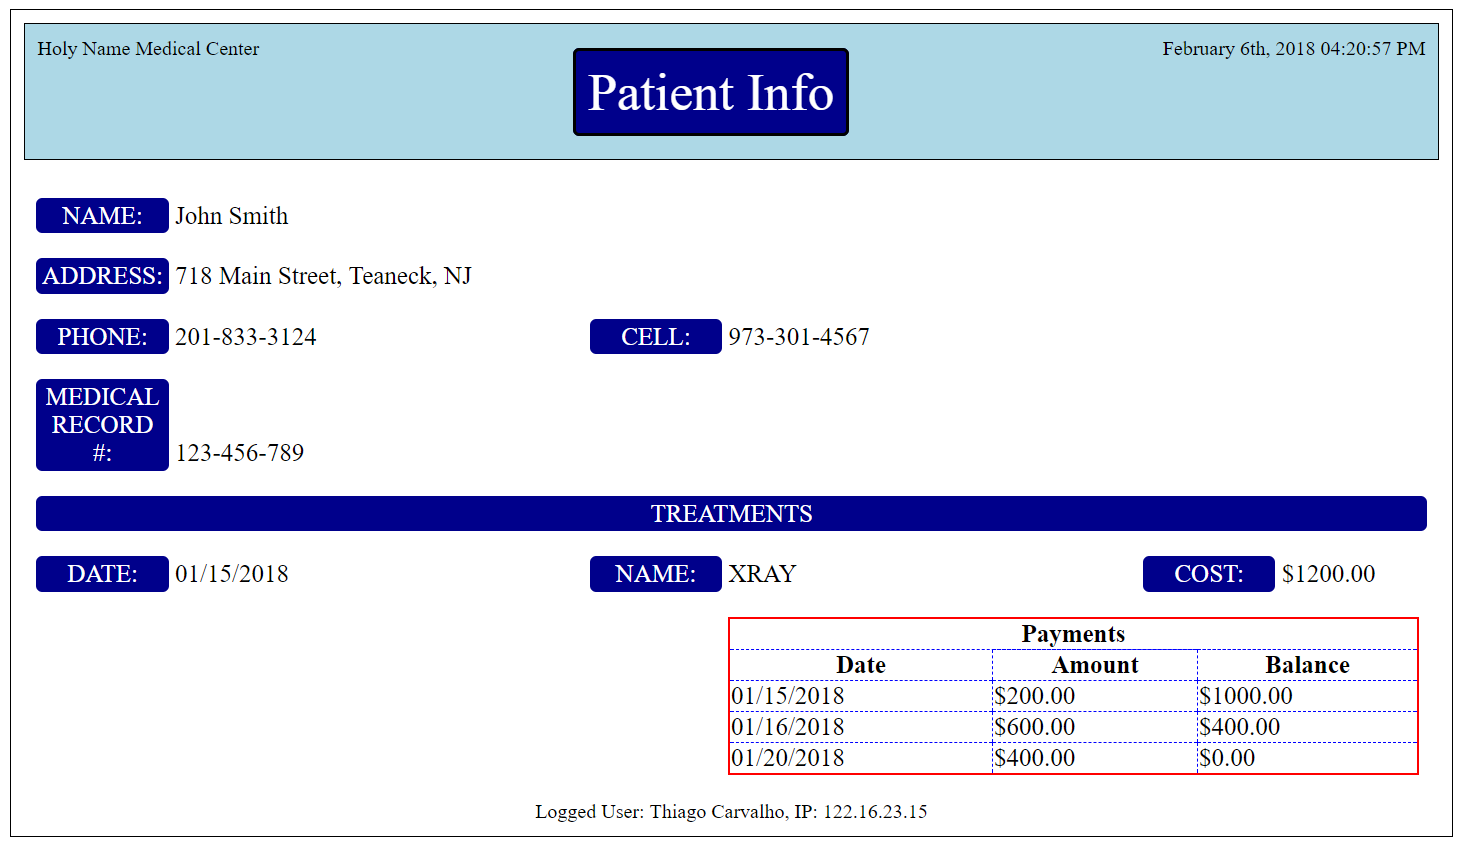
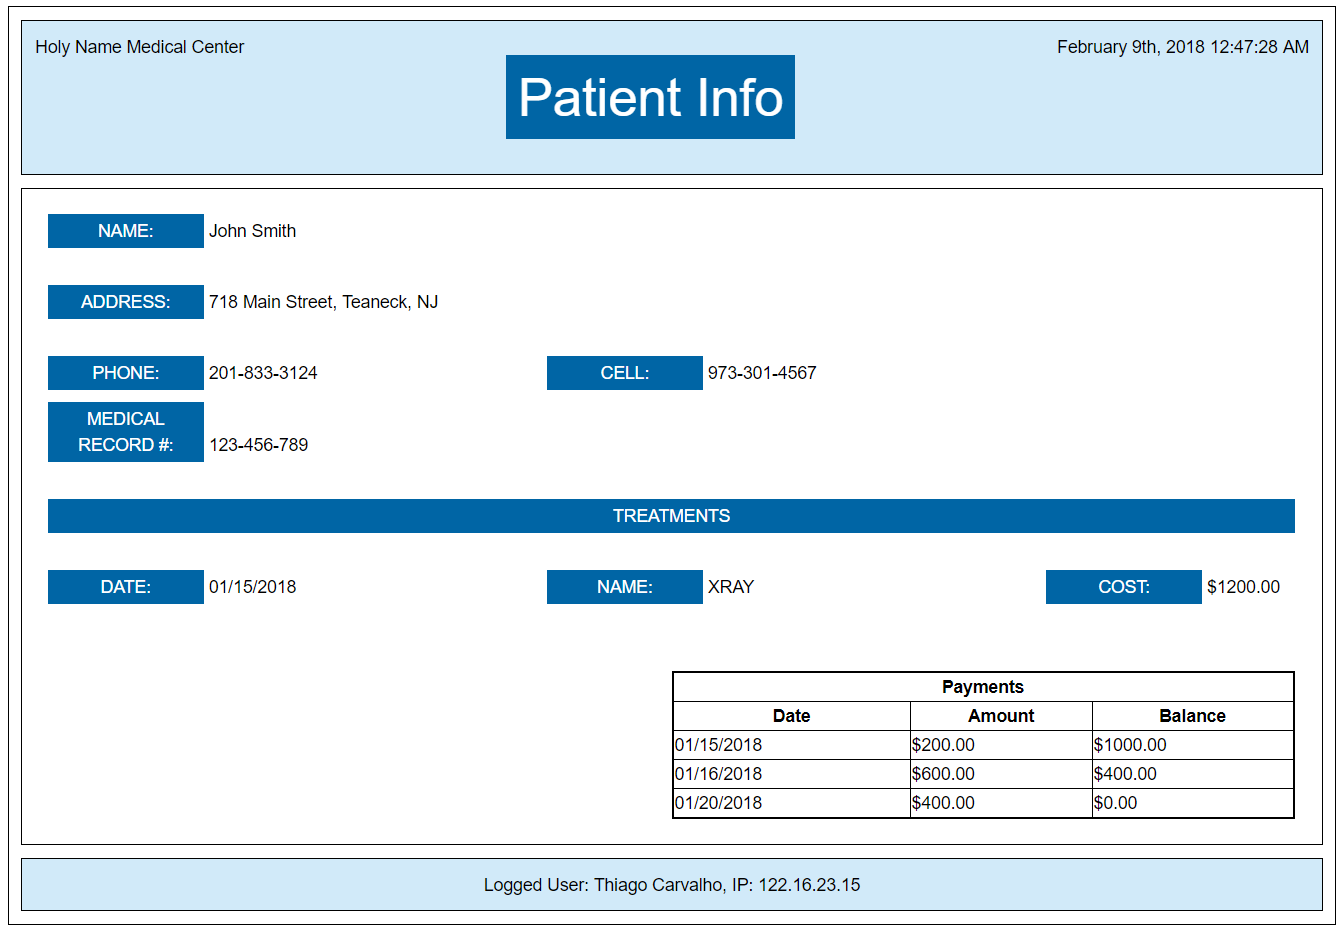
Fixed the footer on the HTML doc and organized its CSS

diff --git a/2018-02-01/patient-table.html b/2018-02-01/patient-table.html
@@ -4,8 +4,11 @@
 		<meta charset="utf-8">
 		<title>Holy Name Medical Center - Patient Info</title>
 		<link rel="stylesheet" type="text/css" href="CSS/patient-style.css">
+		<link rel="stylesheet" href="https://www.w3schools.com/w3css/4/w3.css">
 	</head>
 	<body>
+
+	<!-- satat -->
 		<div id="container">
 			<header>
 				<div id="header-company">
@@ -19,8 +22,10 @@
 				</div>
 			</header>
 
-			<main>
-				<div class="row">
+			<main role="main">
+				<!-- <div class="row"> -->
+
+					<!-- Top Half of Form -->
 					<div class="row">
 						<div class="caption">NAME:</div> John Smith
 					</div>
@@ -28,7 +33,7 @@
 						<div class="caption">ADDRESS:</div> 718 Main Street, Teaneck, NJ
 					</div>
 					<div class="row">
-						<div class="col half">
+						<div class="col space">
 							<div class="caption">PHONE:</div> 201-833-3124
 						</div>
 						<div class="col">
@@ -38,25 +43,36 @@
 					<div class="row">
 						<div class="caption">MEDICAL RECORD #:</div> 123-456-789
 					</div>
+					<!-- Top Half of Form End -->
+
+					<!-- Bottom Half of Form -->
 					<div class="row">
 						<div id="override" class="caption">TREATMENTS</div>
 					</div>
 					<div class="row">
-						<div class="col half">
+						<div class="col space">
 							<div class="caption">DATE:</div> 01/15/2018
 						</div>
-						<div class="col half">
+						<div class="col space">
 							<div class="caption">NAME:</div> XRAY
 						</div>
 						<div class="col">
 							<div class="caption">COST:</div> $1200.00
 						</div>
 					</div>
+					<!-- Blank Row to create distance between previous row and table -->
 					<div class="row">
-						<div class="col space">
+						<p></p>
+					</div>
+					<!-- End Blank Row -->
+					<div class="row">
+						<!-- Blank Column to offset table from left side -->
+						<div class="col half">
 							<p></p>
 						</div>
-						<table class="space">
+						<!-- End Blank Column -->
+						<!-- Table with Treatment Info -->
+						<table class="half">
 							<tr>
 								<th colspan="3">Payments</th>
 							</tr>
@@ -81,12 +97,15 @@
 								<td>$0.00</td>
 							</tr>
 						</table>
+						<!-- Table with Treatment Info -->
 					</div>
-				</div>
+					<!-- Bottom Half of Form End -->
+
+				<!-- </div> -->
 			</main>
 
 			<footer>
-				<div id="small">Logged User: Thiago Carvalho, IP: 122.16.23.15</div>
+				Logged User: Thiago Carvalho, IP: 122.16.23.15
 			</footer>
 
 			<script src="JavaScript/patient-script.js"></script>

diff --git a/2018-02-01/CSS/patient-style.css b/2018-02-01/CSS/patient-style.css
@@ -3,6 +3,8 @@
 	width: 97%;
 	margin: 20px auto;
 	border: 1px solid black;
+	font-size: 14px;
+	font-family: Arial, Verdana;
 }
 /* WHOLE PAGE END */
 
@@ -11,98 +13,96 @@
 /* HEADER SECTION */
 header {
 	margin: 10px; 
-	border: 1px solid black;
 	padding: 10px;
-	background-color: lightblue;
+	border: 1px solid black;
+	background-color: #d1eaf9;
 }
 
 #header-company {
-	text-align: center;
 	float: left;
 	/*border: 1px solid black;*/
+	text-align: center;
 }
 
 #header-datetime {
-	text-align: center;
 	float: right;
 	/*border: 1px solid black;*/
+	text-align: center;
 }
 
 #header-pagename {
-	text-align: center;
-	overflow: hidden;
 	padding: 20px;
 	/*border: 1px solid black;*/
+	text-align: center;
 }
 
 .title {
 	display: inline;
 	padding: 10px;
-	font-size: 42px;
-	border: 2px solid black;
-	border-radius: 5px;
-	background-color: darkblue;
+	background-color: #0065a5;
 	color: white;
+	font-size: 42px;
 }
 /* HEADER SECTION END */
 
 
 
 /* CONTENT SECTION */
-/*main {border: 1px solid black;}*/
+main {
+	display: block;
+	margin: 10px;
+	border: 1px solid black;
+}
 
 .row {
 	display: block;
-	float: left;
+	/*float: left;*/
 	clear: both;
 	width: 98%;
+	margin: 10px;
 	padding: 10px;
-	font-size: 20px;
+	font-size: 14px;
 
-	/*border: 1px solid red;*/
+	/*border: 1px dashed navy;*/
 }
 
 .col {
 	display: inline-block;
 	float:left;
 	/*clear:left;*/
-	font-size: 20px;
+	font-size: 14px;
 
 	/*background: tomato;
 	border: 2px solid yellow;*/
 }
 
-.half {
-	width: 40%;
-}
-
-.space {
-	width: 50%;
-}
-
 .caption {
 	display: inline-block;
 	/*border: 2px solid black;*/
-	background-color: darkblue;
-	color: white;
-	font-size: 20x;
-	width: 105px;
+	background-color: #0065a5;
+	color: #fff;
+	font-size: 14x;
+	width: 125px;
 	padding: 3px;
 	text-align: center;
-	border-radius: 5px;
 }
 
 #override.caption{
 	display: block;
-	/*margin: 10px;*/
-	text-align: center;
 	width: 100%;
-	font-size: 20px;
+}
+
+.space {
+	width: 40%;
+}
+
+.half {
+	width: 50%;
 }
 
 table {
-	border-collapse: collapse;
 	border-spacing: 10px;
+	border-collapse: collapse;
 	border: 2px solid black;
 }
 
@@ -116,9 +116,9 @@ th, td {
 /* FOOTER SECTION */
 footer {
 	margin: 10px;
-}
-
-#small {
+	padding: 10px;
+	border: 1px solid black;
+	background-color: #d1eaf9;
 	text-align: center;
 }
 /* FOOTER SECTION END */
